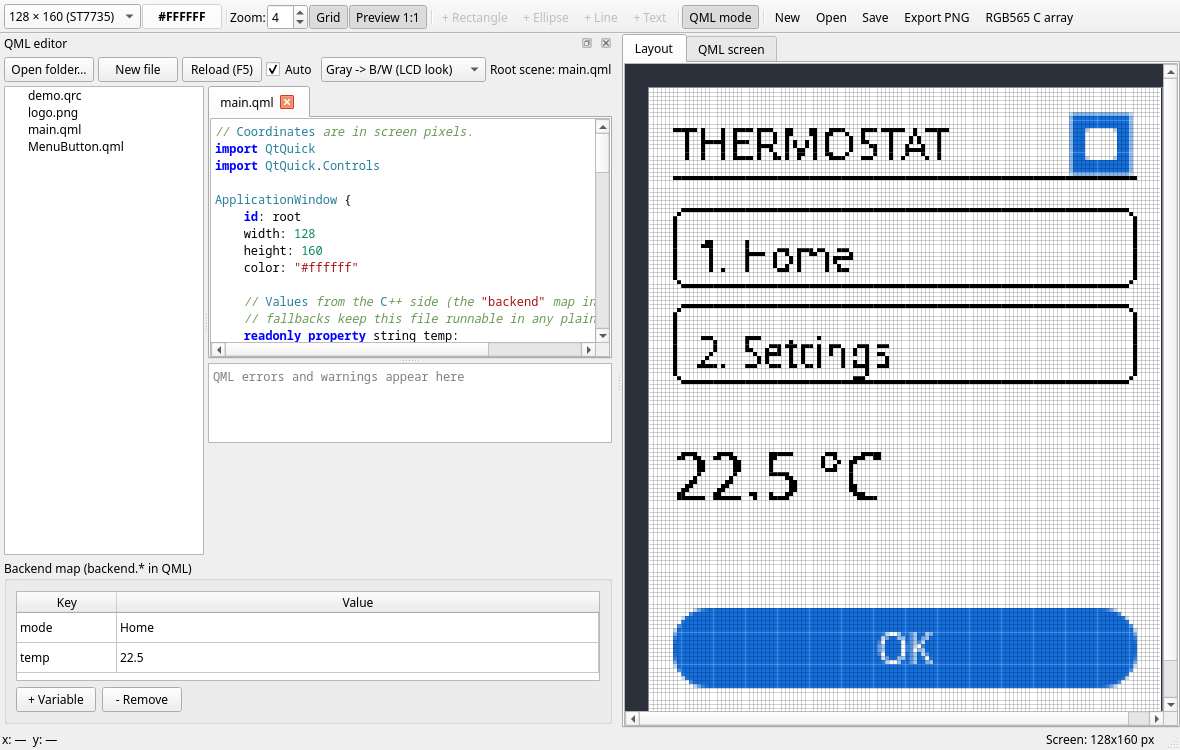
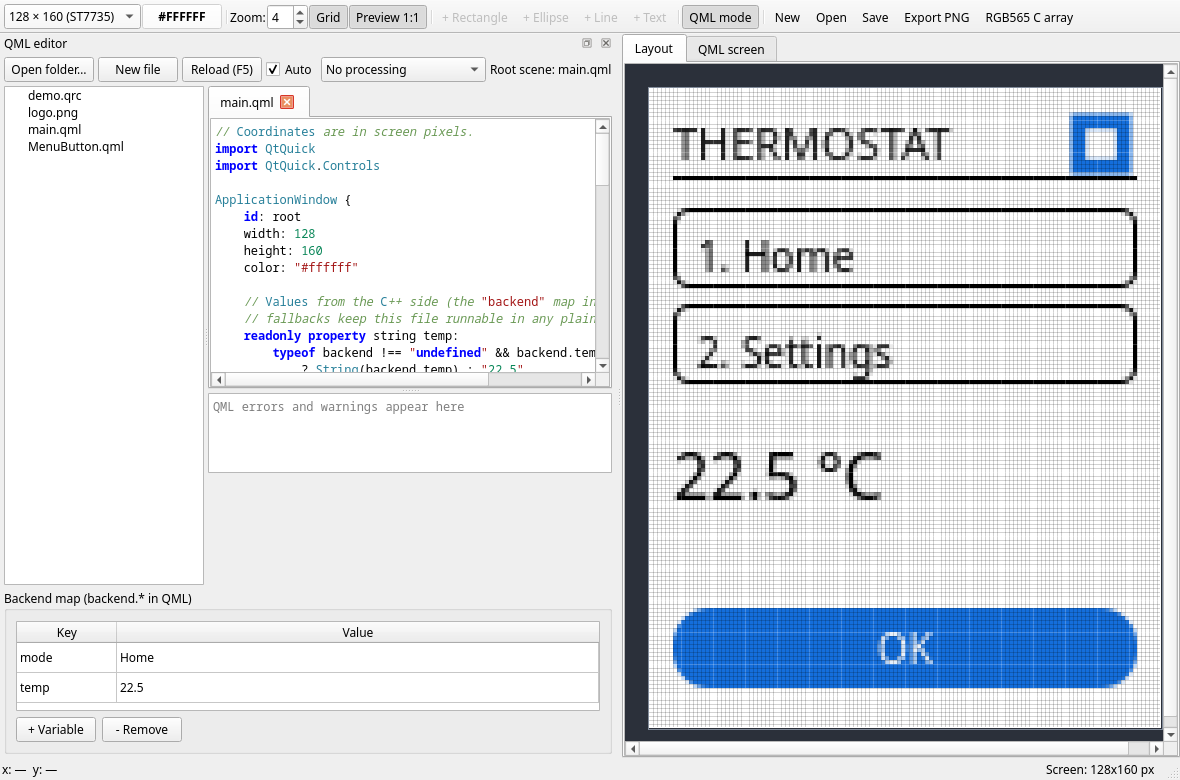
QML: size-less ApplicationWindow scenes render at exact screen size

diff --git a/src/qmlpane.cpp b/src/qmlpane.cpp
@@ -223,6 +223,20 @@ static const char *kDemoQrc = R"XML(<RCC>
 </RCC>
 )XML";
 
+// ApplicationWindow ignores resizes after creation, so instances are
+// created directly at the target size.
+static QQuickWindow *createSceneWindow(QQmlEngine *engine, const QUrl &url, const QSize &size)
+{
+    QQmlComponent comp(engine, url);
+    if (comp.isError())
+        return nullptr;
+    const QVariantMap init{{QStringLiteral("width"), size.width()},
+                           {QStringLiteral("height"), size.height()}};
+    QObject *root = comp.createWithInitialProperties(init);
+    QQmlEngine::setObjectOwnership(root, QQmlEngine::CppOwnership);
+    return qobject_cast<QQuickWindow *>(root);
+}
+
 QmlPane::QmlPane(QWidget *parent)
     : QWidget(parent)
 {
@@ -253,8 +267,10 @@ void QmlPane::buildUi()
     m_snapCombo->addItem(tr("Gray -> B/W (LCD look)"));
     m_snapCombo->addItem(tr("Full 1-bit (monochrome)"));
     m_snapCombo->addItem(tr("No processing"));
-    m_snapCombo->setToolTip(tr("QML antialiasing renders small text in gray; "
-                               "the threshold turns gray pixels black/white and keeps colors"));
+    m_snapCombo->setCurrentIndex(2);
+    m_snapCombo->setToolTip(tr("Gray -> B/W binarizes gray pixels (1-bit feel) and "
+                               "destroys image gradients; No processing shows the "
+                               "frame exactly as the display would"));
     m_entryLabel = new QLabel;
     top->addWidget(openBtn);
     top->addWidget(newBtn);
@@ -392,16 +408,15 @@ void QmlPane::buildUi()
 
     connect(&m_grabTimer, &QTimer::timeout, this, [this] {
         QImage img;
-        if (m_hiddenWindow)
+        if (m_hiddenWindow) {
             img = m_hiddenWindow->grabWindow();
-        else if (m_quick && m_quick->status() == QQuickWidget::Ready)
+        } else if (m_quick && m_quick->status() == QQuickWidget::Ready) {
             img = m_quick->grabFramebuffer();
+        }
         if (img.isNull())
             return;
-        if (m_previewWindow && m_previewView) {
-            m_previewWindow->resize(m_previewView->size());
+        if (m_previewWindow && m_previewView)
             m_previewView->setFrame(m_previewWindow->grabWindow());
-        }
         if (img.size() != QSize(m_w, m_h))
             img = img.scaled(m_w, m_h, Qt::IgnoreAspectRatio, Qt::FastTransformation);
         img = snapFrame(img, FrameSnap(m_snapCombo->currentIndex()));
@@ -451,18 +466,23 @@ void QmlPane::rebuildPreview(const QUrl &url)
     auto *lay = static_cast<QVBoxLayout *>(m_previewHost->layout());
     while (lay->count() > 0)
         delete lay->takeAt(0)->widget();
+    delete m_previewWindow;
     m_previewWindow = nullptr;
     m_previewView = nullptr;
 
-    QQmlComponent comp(m_engine, url);
-    if (comp.isError()) {
-        for (const auto &e : comp.errors())
+    QQmlComponent probe(m_engine, url);
+    if (probe.isError()) {
+        for (const auto &e : probe.errors())
             appendLog(e.toString());
         return;
     }
-    QObject *root = comp.create();
-    if (auto *win = qobject_cast<QQuickWindow *>(root)) {
-        m_previewWindow = win;
+    QObject *root = probe.create();
+    QQmlEngine::setObjectOwnership(root, QQmlEngine::CppOwnership);
+    if (qobject_cast<QQuickWindow *>(root)) {
+        delete root;
+        // ApplicationWindow ignores resizes after creation, so the preview
+        // renders at a fixed 2x screen size and the view scales the frame
+        m_previewWindow = createSceneWindow(m_engine, url, QSize(m_w * 2, m_h * 2));
         m_previewView = new QmlFrameView;
         lay->addWidget(m_previewView);
         return;
@@ -518,12 +538,16 @@ void QmlPane::dropEvent(QDropEvent *event)
 
 void QmlPane::setScreenSize(int width, int height)
 {
+    if (width == m_w && height == m_h)
+        return;
     m_w = width;
     m_h = height;
     if (m_quick)
         m_quick->setFixedSize(m_w, m_h);
-    if (m_hiddenWindow)
-        m_hiddenWindow->resize(m_w, m_h);
+    // the hidden window is created at a fixed size, so a screen size change
+    // requires a reload to re-create the scene
+    if (!m_dir.isEmpty())
+        QTimer::singleShot(0, this, &QmlPane::reloadNow);
 }
 
 bool QmlPane::openProjectDir(const QString &dir, const QString &entry)
@@ -855,15 +879,15 @@ void QmlPane::reloadNow()
     delete m_hiddenRoot;
     m_hiddenWindow = nullptr;
     m_quick->setSource(QUrl());
-    QQmlComponent comp(m_engine, url);
-    if (comp.isError()) {
-        for (const auto &e : comp.errors())
+    QQmlComponent probe(m_engine, url);
+    if (probe.isError()) {
+        for (const auto &e : probe.errors())
             appendLog(e.toString());
-    } else if (QObject *root = comp.create()) {
-        if (auto *win = qobject_cast<QQuickWindow *>(root)) {
-            m_hiddenRoot = root;
-            m_hiddenWindow = win;
-            win->resize(m_w, m_h);
+    } else if (QObject *root = probe.create()) {
+        if (qobject_cast<QQuickWindow *>(root)) {
+            delete root;
+            m_hiddenWindow = createSceneWindow(m_engine, url, QSize(m_w, m_h));
+            m_hiddenRoot = m_hiddenWindow;
         } else {
             delete root;
             m_quick->setSource(url);

diff --git a/README.md b/README.md
@@ -82,14 +82,15 @@ The code editor follows Qt Creator basics:
 | Tab / Shift+Tab | indents / dedents lines by 4 spaces (selection-aware) |
 | Ctrl+/ | toggles `//` comments |
 
-Qt Quick antialiasing renders small text in gray, so frames are
-post-processed (combo box in the QML panel):
+Frame post-processing (combo box in the QML panel). The default is
+"No processing": the frame is shown exactly as the display would render
+it, antialiased grays included:
 
 | Mode | Action |
 |---|---|
-| Gray -> B/W | gray pixels become black/white, colors preserved |
+| Gray -> B/W | binarizes gray pixels (1-bit feel), destroys image gradients |
 | Full 1-bit | whole frame in black and white (monochrome emulation) |
-| No processing | frame unchanged |
+| No processing | frame unchanged (default) |
 
 Using `renderType: Text.NativeRendering` in scene code is recommended —
 native font rendering instead of distance-field.
